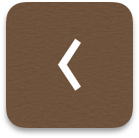
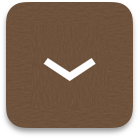
tray button now works when tray is deployed

Changed region(s): [[0.3165, 0.2609, 0.6906, 0.6667]]

diff --git a/peony/styles/ui.css b/peony/styles/ui.css
@@ -89,6 +89,10 @@ button, input[type=button], input[type=submit], input[type=reset], input[type=te
 	z-index: 99999999; /* TODO: Make this a more appropriate number!!! */
 }
 
+.trayContainer {
+	z-index: 99999999; /* TODO: Make this a more appropriate number!!! */
+}
+
 ul.modal-actions {
 	position: absolute;
     bottom: 24px; /* looks prettier */
@@ -129,4 +133,13 @@ li.modal-action {
 .imageButton {
 	background: no-repeat scroll 0 0 transparent; position: fixed;
 	width: 138px; height: 138px;
+}
+
+.tray {
+	background-color: rgba(0,0,0,0.7);
+    width: 1920px;
+    height: 1080px;
+    position: fixed;
+    top: 0;
+    left: 0;
 }

diff --git a/peony/index.html b/peony/index.html
@@ -18,6 +18,12 @@
 
 			</div>
 
+			<div class="trayContainer" style="display: none">
+				<button class="imageButton" id="trayButton" style="bottom:32px;left:32px;background:url('assets/common/addItem.png');z-index: 1;" onclick="_f.game.toggleTray();"></button>
+				<!-- i was going to create a new container div and put this in there, however creating a new div would prevent clicks from working as it'd block everything underneath -->
+				<div class="tray" closed="true" style="display: none"></div>
+			</div>
+
 			<div class="content">
 				<!--<form>
 					<input type="text" placeholder="Placeholder" />

diff --git a/peony/lib/foundation.js b/peony/lib/foundation.js
@@ -119,10 +119,15 @@ var _f = {
 				// tray is closed, open it
 				$('.tray').attr('closed', 'false');
 				$('#trayButton').css('background', "url('assets/common/back.png')");
+				$('.trayContainer').show();
+				$('.tray').effect('slide', {direction: 'down', duration: 350, mode: 'show'});
 			} else {
 				// tray is open, close it
 				$('.tray').attr('closed', 'true');
 				$('#trayButton').css('background', "url('assets/common/addItem.png')");
+				$('.tray').effect('slide', {direction: 'down', duration: 350, mode: 'hide'}, function(){
+					$('.trayContainer').hide();
+				});
 			}
 		}
 	},

diff --git a/peony/views/gameplay.html b/peony/views/gameplay.html
@@ -2,7 +2,6 @@
 	<div class="shop-pre"></div>
 	<div class="shop-post"></div>
 	<button class="imageButton" id="trayButton" style="bottom:32px;left:32px;background:url('assets/common/addItem.png')" onclick="_f.game.toggleTray();"></button>
-	<div class="tray" closed="true"></div>
 </div>
 
 <script>
